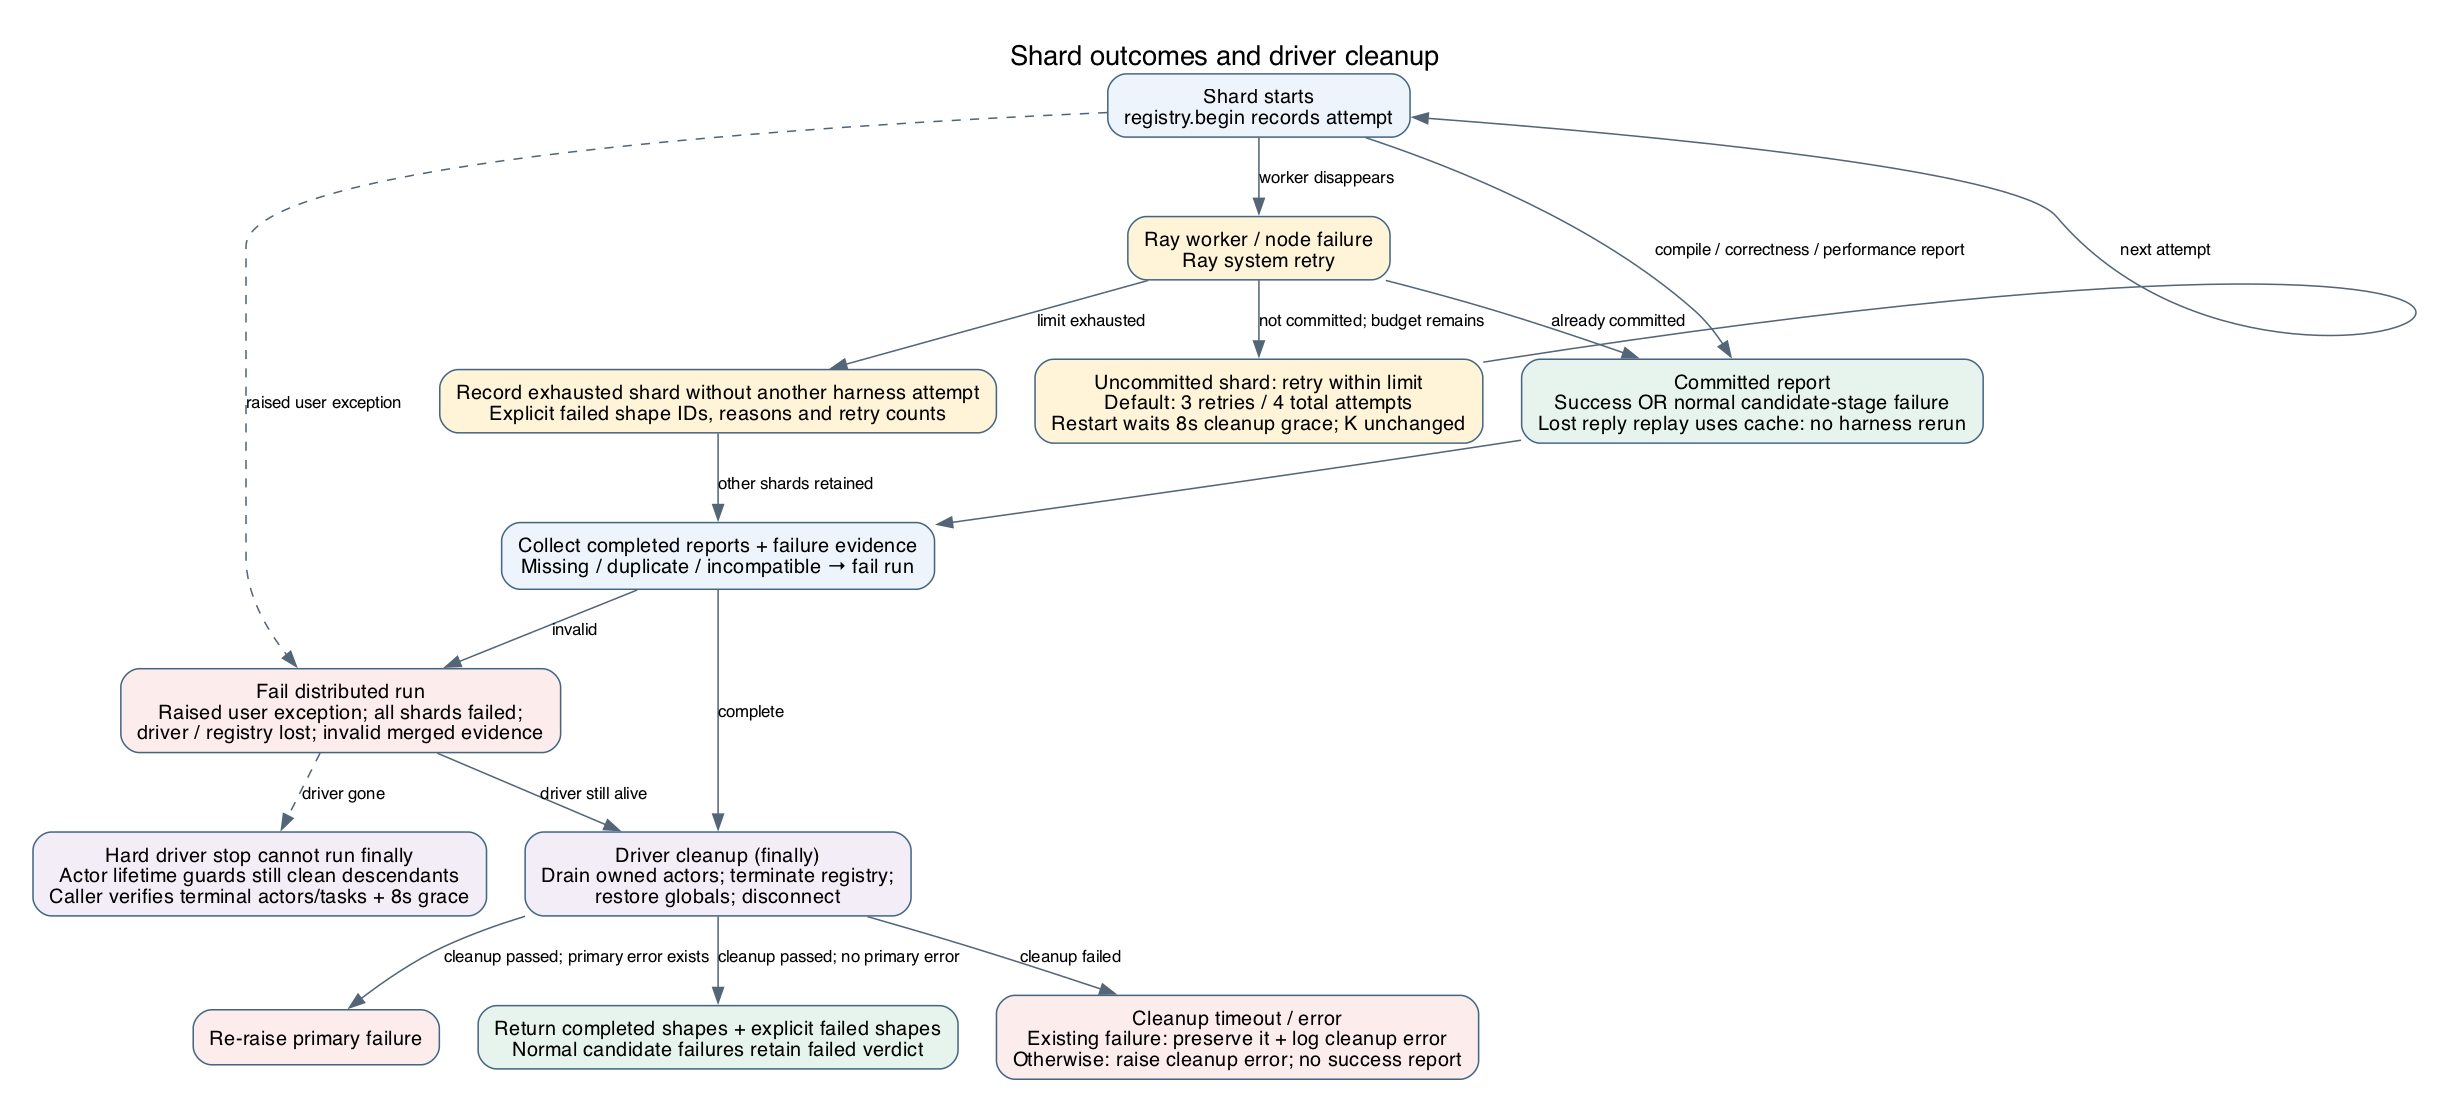
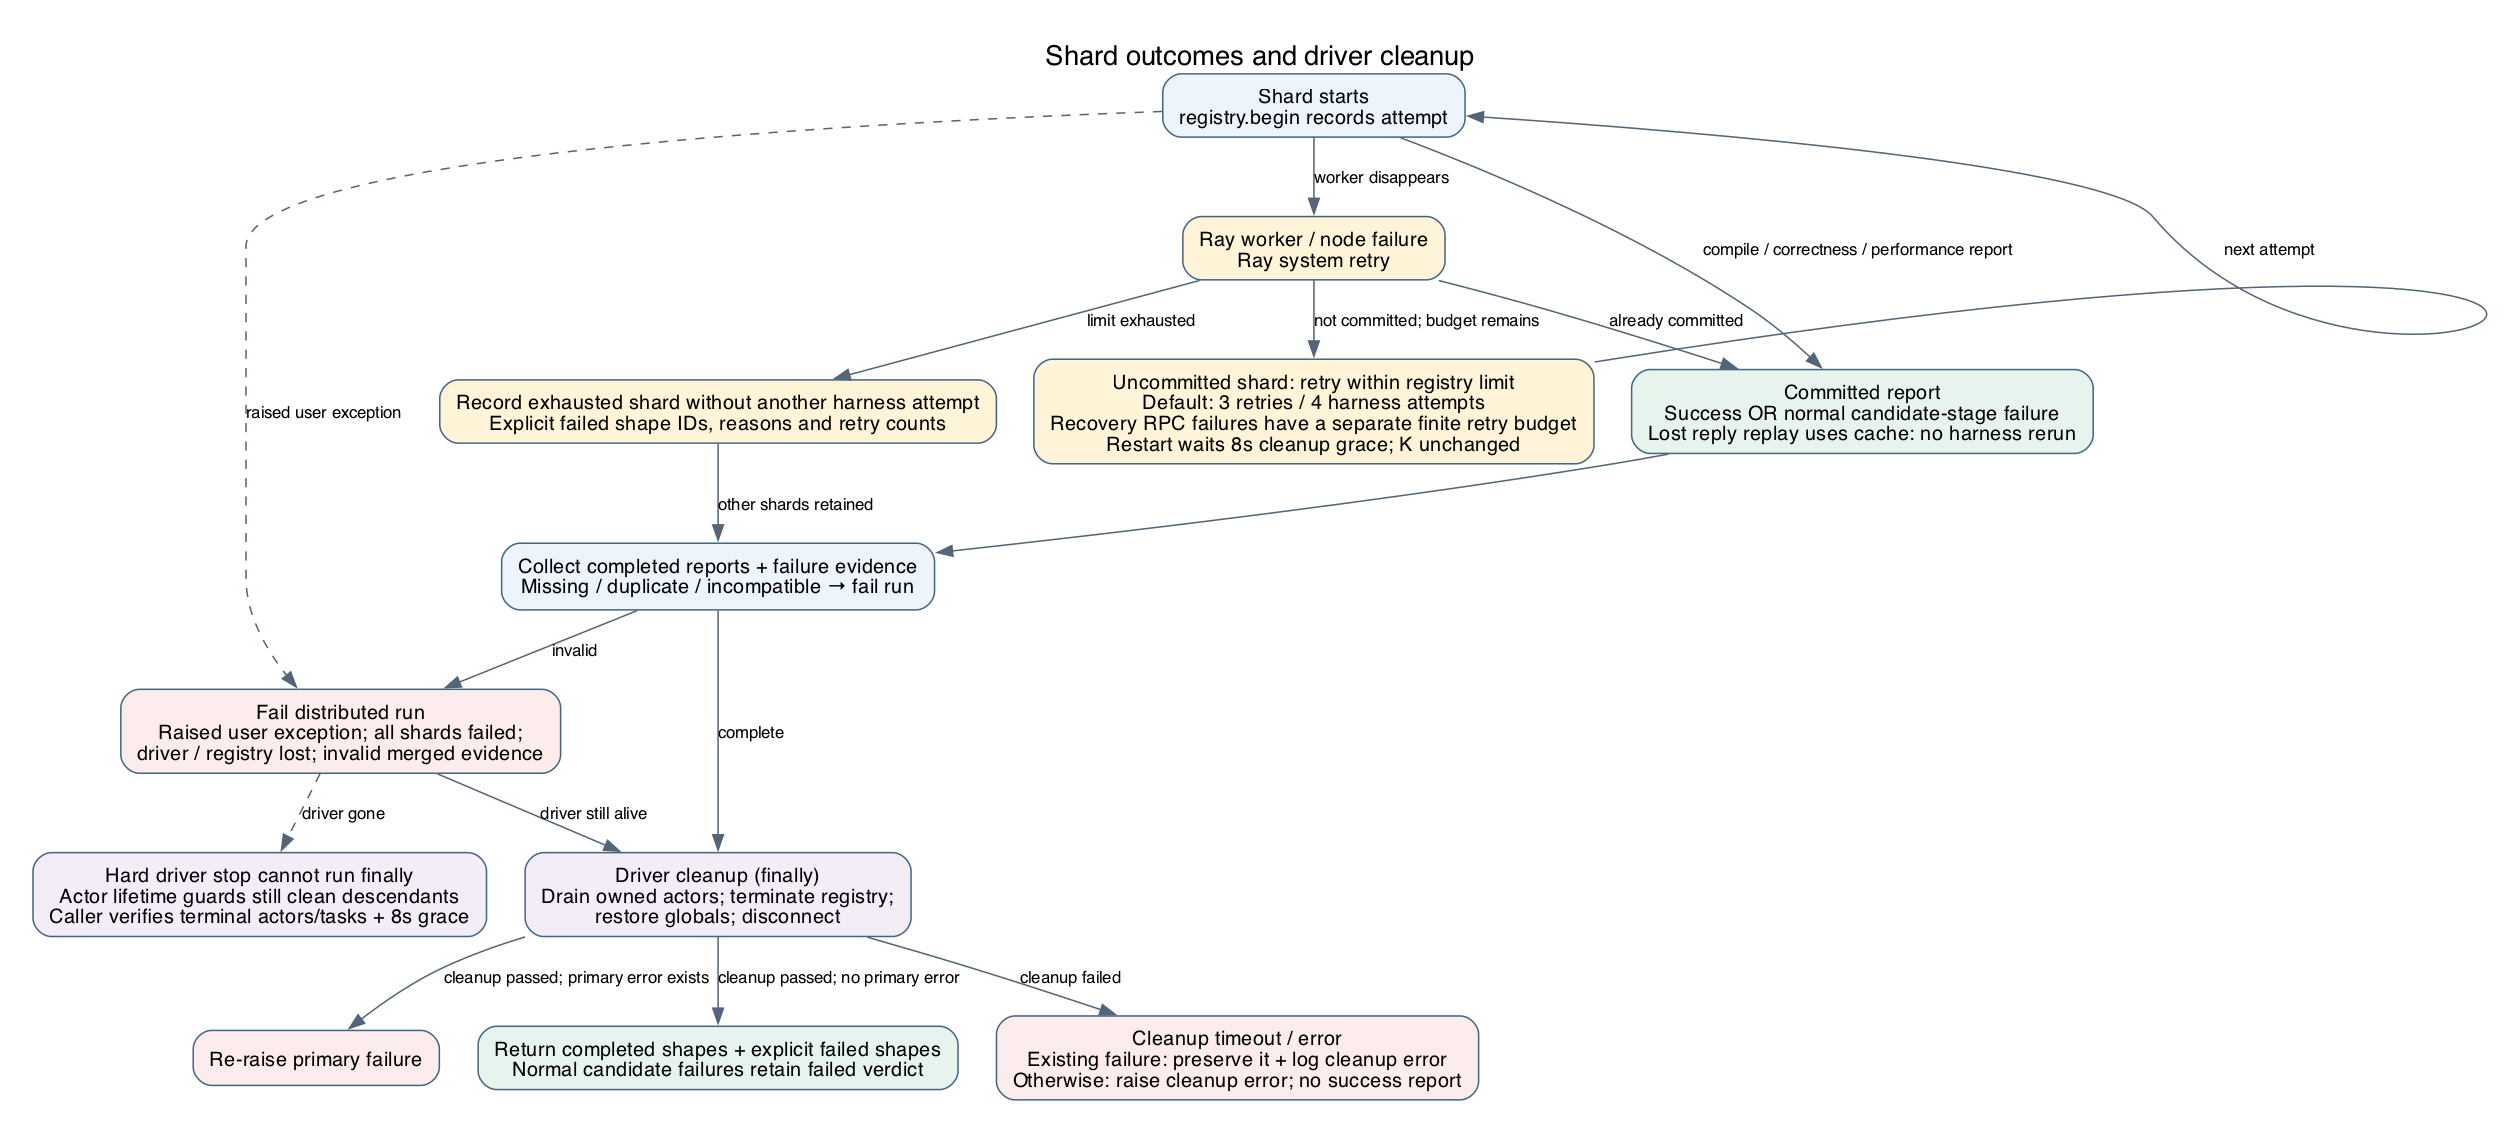
fix(ray): budget recovery RPC retries separately from evaluation
Temporary actor unavailability can consume delivery retries before registry admission or exhaustion reporting. Keep the harness limit strict while allowing bounded transport recovery and preserving cached reports.

diff --git a/tests/test_ray_data.py b/tests/test_ray_data.py
@@ -29,9 +29,11 @@ handles = []
 current = None
 class RayActorError(Exception): pass
 class GetTimeoutError(Exception): pass
+class ActorUnavailableError(RayActorError): pass
 # Process loss cannot report an application exception.
 class WorkerLost(BaseException): pass
-exceptions = types.SimpleNamespace(RayActorError=RayActorError, GetTimeoutError=GetTimeoutError)
+exceptions = types.SimpleNamespace(RayActorError=RayActorError, GetTimeoutError=GetTimeoutError,
+                                  ActorUnavailableError=ActorUnavailableError)
 pickle_registry = set()
 cloudpickle = types.SimpleNamespace(
     register_pickle_by_value=lambda m: pickle_registry.add(m.__name__),
@@ -83,6 +85,8 @@ last_rows = None
 last_results = None
 deliveries = {}
 mutation = None
+unavailable_before_admission = 0
+unavailable_before_tombstone = 0
 class DataContext:
     actor_task_retry_on_errors = False
     retried_map_errors = False
@@ -113,14 +117,28 @@ class Dataset:
             os.environ["CUDA_VISIBLE_DEVICES"] = "0"
             for index, row in enumerate(self.rows):
                 ray.current, actor = actors[index % count]
+                lost_attempts = unavailable_attempts = 0
+                retries = self.options["fn_constructor_args"][1].get("ray_max_shard_retries", 3)
+                harness_limit = retries + 1
                 for attempt in range(self.options["max_task_retries"] + 1):
                     deliveries[row["shard_id"]] = deliveries.get(row["shard_id"], 0) + 1
+                    if attempt < unavailable_before_admission:
+                        if attempt == self.options["max_task_retries"]:
+                            raise ray.exceptions.ActorUnavailableError("temporary actor RPC loss")
+                        continue
+                    if (lost_attempts == harness_limit
+                            and unavailable_attempts < unavailable_before_tombstone):
+                        unavailable_attempts += 1
+                        if attempt == self.options["max_task_retries"]:
+                            raise ray.exceptions.ActorUnavailableError("temporary actor RPC loss")
+                        continue
                     try:
                         out = actor({key: [value] for key,value in row.items()})
-                        if mutation == "lost_reply" and attempt == 0:
+                        if mutation == "lost_reply" and attempt == unavailable_before_admission:
                             raise ray.WorkerLost("lost worker reply")
                         break
                     except ray.WorkerLost as error:
+                        lost_attempts += 1
                         if attempt == self.options["max_task_retries"]:
                             raise ray.exceptions.RayActorError(str(error)) from error
                         actor.__del__()
@@ -967,8 +985,8 @@ def test_only_ten_lost_workers_retry_in_twenty_shards(
     assert lost == 10 * failures
     assert len(result['distribution']['worker_actor_ids']) == 2
     assert ray.data.last_options['num_gpus'] == 1
-    assert ray.data.last_options['max_task_retries'] == 4
-    assert ray.data.last_options['max_restarts'] == 80
+    assert ray.data.last_options['max_task_retries'] == 8
+    assert ray.data.last_options['max_restarts'] == 160
     assert result['distribution']['max_shard_retries'] == 3
     for rows in attempts.values():
         assert [row['attempt'] for row in rows] == list(range(1, len(rows) + 1))
@@ -982,7 +1000,10 @@ def test_only_ten_lost_workers_retry_in_twenty_shards(
     assert ray.shutdown_called and all(handle.dead for handle in ray.handles)
 
 
-def test_committed_shards_survive_lost_worker_replies(evaluator, fake_ray, monkeypatch, tmp_path):
+@pytest.mark.parametrize('unavailable', [0, 4])
+def test_committed_shards_survive_lost_worker_replies(
+    evaluator, fake_ray, monkeypatch, tmp_path, unavailable
+):
     from collections import Counter
 
     local, _, _, _ = evaluator
@@ -996,6 +1017,7 @@ def test_committed_shards_survive_lost_worker_replies(evaluator, fake_ray, monke
         return local(config['shape_ids'], mode='performance_only')
 
     ray.data.mutation = 'lost_reply'
+    ray.data.unavailable_before_admission = unavailable
     monkeypatch.setattr('atrex_bench.evaluate', run)
     result = adapter.evaluate_ray_data(config)
     assert len(result['performance']['shapes']) == 20
@@ -1044,8 +1066,8 @@ def test_worker_retry_exhaustion_is_bounded_and_later_shards_complete(
         assert list(result['passed'][stage]) == completed_ids
     for stage in ('correctness', 'performance'):
         assert list(result[stage]['shapes']) == completed_ids
-    assert ray.data.last_options['max_task_retries'] == limit + 1
-    assert ray.data.last_options['max_restarts'] == 20 * (limit + 1)
+    assert ray.data.last_options['max_task_retries'] == 2 * (limit + 1)
+    assert ray.data.last_options['max_restarts'] == 40 * (limit + 1)
     for index, row in enumerate(sorted(ray.data.last_results, key=lambda row: row['shard_id'])):
         sid = ids[index]
         attempts = result['distribution']['shard_attempts'][row['shard_id']]
@@ -1059,6 +1081,83 @@ def test_worker_retry_exhaustion_is_bounded_and_later_shards_complete(
         else:
             assert json.loads(row['result_json'])['shape_selection']['selected_shape_ids'] == [sid]
             assert attempts[0]['status'] == 'completed'
+    assert ray.shutdown_called and all(handle.dead for handle in ray.handles)
+
+
+@pytest.mark.parametrize('retries', [0, 1, 3])
+@pytest.mark.parametrize('all_failed', [False, True])
+@pytest.mark.parametrize('phase', ['before_admission', 'before_tombstone'])
+def test_transport_failures_do_not_consume_shard_harness_budget(
+    evaluator, fake_ray, monkeypatch, tmp_path, retries, all_failed, phase
+):
+    from collections import Counter
+
+    local, _, _, _ = evaluator
+    ray, _ = fake_ray
+    config = _retry_fixture(evaluator, tmp_path, monkeypatch)
+    config['ray_max_shard_retries'] = retries
+    setattr(ray.data, 'unavailable_' + phase, retries + 1)
+    calls = Counter()
+
+    def run(config):
+        sid = config['shape_ids'][0]
+        calls[sid] += 1
+        if all_failed or sid != '19':
+            raise ray.WorkerLost('injected worker process loss')
+        return local([sid], mode='performance_only')
+
+    monkeypatch.setattr('atrex_bench.evaluate', run)
+    if all_failed:
+        with pytest.raises(RuntimeError, match='All Ray evaluation shards failed'):
+            adapter.evaluate_ray_data(config)
+    else:
+        result = adapter.evaluate_ray_data(config)
+        assert set(result['passed']['compile']) == {'19'}
+        assert len(result['shape_selection']['failed_shapes']) == 19
+        assert all(failure['retries'] == retries
+                   for failure in result['shape_selection']['failed_shapes'])
+    assert calls['19'] == (retries + 1 if all_failed else 1)
+    assert all(count == retries + 1 for sid, count in calls.items() if all_failed or sid != '19')
+    assert len(ray.data.last_results) == 20
+    successful_deliveries = retries + 2 if phase == 'before_admission' else 1
+    assert all(ray.data.deliveries[row['shard_id']] == (
+        2 * (retries + 1) + 1 if not row['result_json'] else successful_deliveries
+    ) for row in ray.data.last_results)
+    assert ray.shutdown_called and all(handle.dead for handle in ray.handles)
+
+
+def test_persistent_transport_failure_remains_bounded(evaluator, fake_ray, monkeypatch, tmp_path):
+    ray, _ = fake_ray
+    config = _retry_fixture(evaluator, tmp_path, monkeypatch)
+    calls = []
+    monkeypatch.setattr('atrex_bench.evaluate', lambda config: calls.append(config))
+    ray.data.unavailable_before_admission = 100
+    with pytest.raises(ray.exceptions.ActorUnavailableError, match='temporary actor RPC loss'):
+        adapter.evaluate_ray_data(config)
+    assert calls == []
+    assert list(ray.data.deliveries.values()) == [ray.data.last_options['max_task_retries'] + 1]
+    assert ray.shutdown_called and all(handle.dead for handle in ray.handles)
+
+
+def test_persistent_recovery_rpc_failure_does_not_rerun_the_harness(
+    evaluator, fake_ray, monkeypatch, tmp_path
+):
+    from collections import Counter
+
+    ray, _ = fake_ray
+    config = _retry_fixture(evaluator, tmp_path, monkeypatch)
+    ray.data.unavailable_before_tombstone = 100
+    calls = Counter()
+
+    def run(config):
+        calls[config['shape_ids'][0]] += 1
+        raise ray.WorkerLost('worker process loss')
+
+    monkeypatch.setattr('atrex_bench.evaluate', run)
+    with pytest.raises(ray.exceptions.ActorUnavailableError, match='temporary actor RPC loss'):
+        adapter.evaluate_ray_data(config)
+    assert list(calls.values()) == [4]
+    assert list(ray.data.deliveries.values()) == [9]
     assert ray.shutdown_called and all(handle.dead for handle in ray.handles)
 
 
@@ -1246,8 +1345,8 @@ def test_ray_subset_is_selected_before_partitioning_and_pool_admission(
     assert result['distribution']['max_workers'] == expected_workers
     assert ray.data.last_options['compute'].options['min_size'] == expected_workers
     assert ray.data.last_options['compute'].options['max_size'] == expected_workers
-    assert ray.data.last_options['max_restarts'] == expected_workers * 4
-    assert ray.data.last_options['max_task_retries'] == 4
+    assert ray.data.last_options['max_restarts'] == expected_workers * 8
+    assert ray.data.last_options['max_task_retries'] == 8
     assert config == original_config
     assert (reference / 'shapes.json').read_bytes() == original_shapes
     assert ray.shutdown_called and all(handle.dead for handle in ray.handles)

diff --git a/src/atrex_bench/ray_data.py b/src/atrex_bench/ray_data.py
@@ -456,6 +456,8 @@ def evaluate_ray_data(config):
         raise AtrexConfigError("ray_data requires at least one shape")
     maximum = min(config.get("ray_max_workers", len(shards)), len(shards))
     max_retries = config.get("ray_max_shard_retries", 3)
+    # Actor recovery RPCs can fail before admission; only the registry counts harness attempts.
+    transport_retries = 2 * (max_retries + 1)
     namespace = (
         os.environ.get("AGATE_RAY_NAMESPACE")
         or config.get("ray_namespace")
@@ -514,9 +516,8 @@ def evaluate_ray_data(config):
                 min_size=maximum, max_size=maximum, max_tasks_in_flight_per_actor=1
             ),
             fn_constructor_args=(bundle, config, registry),
-            max_restarts=len(shards) * (max_retries + 1),
-            # The last delivery records exhaustion without invoking the evaluator.
-            max_task_retries=max_retries + 1,
+            max_restarts=len(shards) * transport_retries,
+            max_task_retries=transport_retries,
             **placement,
         )
         results = dataset.take_all()

diff --git a/docs/run_eval_cli_contract.md b/docs/run_eval_cli_contract.md
@@ -235,15 +235,17 @@ their input seeds and environment evidence are retained in the native report.
 
 Missing, duplicate, or incompatible shard results fail the distributed run.
 Normal compile/correctness/performance failures remain in the merged report
-and produce the usual failed verdict without retry. Ray system failures retry the
-affected map task up to `ray_max_shard_retries`; user exceptions are not retried.
+and produce the usual failed verdict without retry. User exceptions are not retried.
 A CPU registry on the driver node commits each completed shard before its worker
 returns, so even replay of a lost result or bundled task reuses completed reports
-without running their harness again. Registry attempt counts enforce the shard
-limit independently of map-task replay. One extra transport delivery records a
-terminal failed shard without invoking its harness; three retries still mean four
-harness attempts. Actor restarts are finite, bounded by shard count times
-`ray_max_shard_retries + 1`, and never increase the admitted worker pool.
+without running their harness again. The registry caps started harness attempts at
+`ray_max_shard_retries + 1`; three retries still mean at most four harness attempts.
+A further delivery records exhaustion without invoking the harness. Ray transport
+retries are separately bounded at `2 * (ray_max_shard_retries + 1)`, allowing one
+additional failed delivery per permitted harness attempt for temporary actor/RPC
+unavailability before admission. Persistent transport failures still fail the run.
+Actor restarts are finite, with each actor bounded by shard count times that
+transport retry budget, and never increase the admitted worker pool.
 Restarted workers wait for the previous subprocess cleanup grace period before
 starting evaluation. Exhaustion returns completed shards and explicit failed shapes;
 all-shard failure, missing terminal evidence, or driver/registry loss fails the run.

diff --git a/docs/ray_data_architecture.md b/docs/ray_data_architecture.md
@@ -16,7 +16,11 @@ outcome, not an infrastructure retry. Raised user exceptions fail the distribute
 run. Ray worker/node failures may replay a map task; the registry checks each
 shard before running its harness, reuses committed results, caps attempts, and
 rejects stale completions. Default three retries means four harness attempts.
-One additional transport delivery records exhaustion without running the harness.
+A further transport delivery records exhaustion without running the harness.
+Temporary recovery RPC failures may occur before the registry admits an attempt;
+Ray transport retries are bounded separately at `2 * (max_retries + 1)` while
+registry admission still permits only `max_retries + 1` harness calls. Actor restart
+limits use the finite transport budget, and persistent transport loss remains fatal.
 Exhausted shards produce explicit `shape_selection.failed_shapes`; successful
 shards and remaining work are retained. All-shard failure or incomplete terminal
 evidence still fails the run. There is no durable checkpoint or whole-driver recovery.
